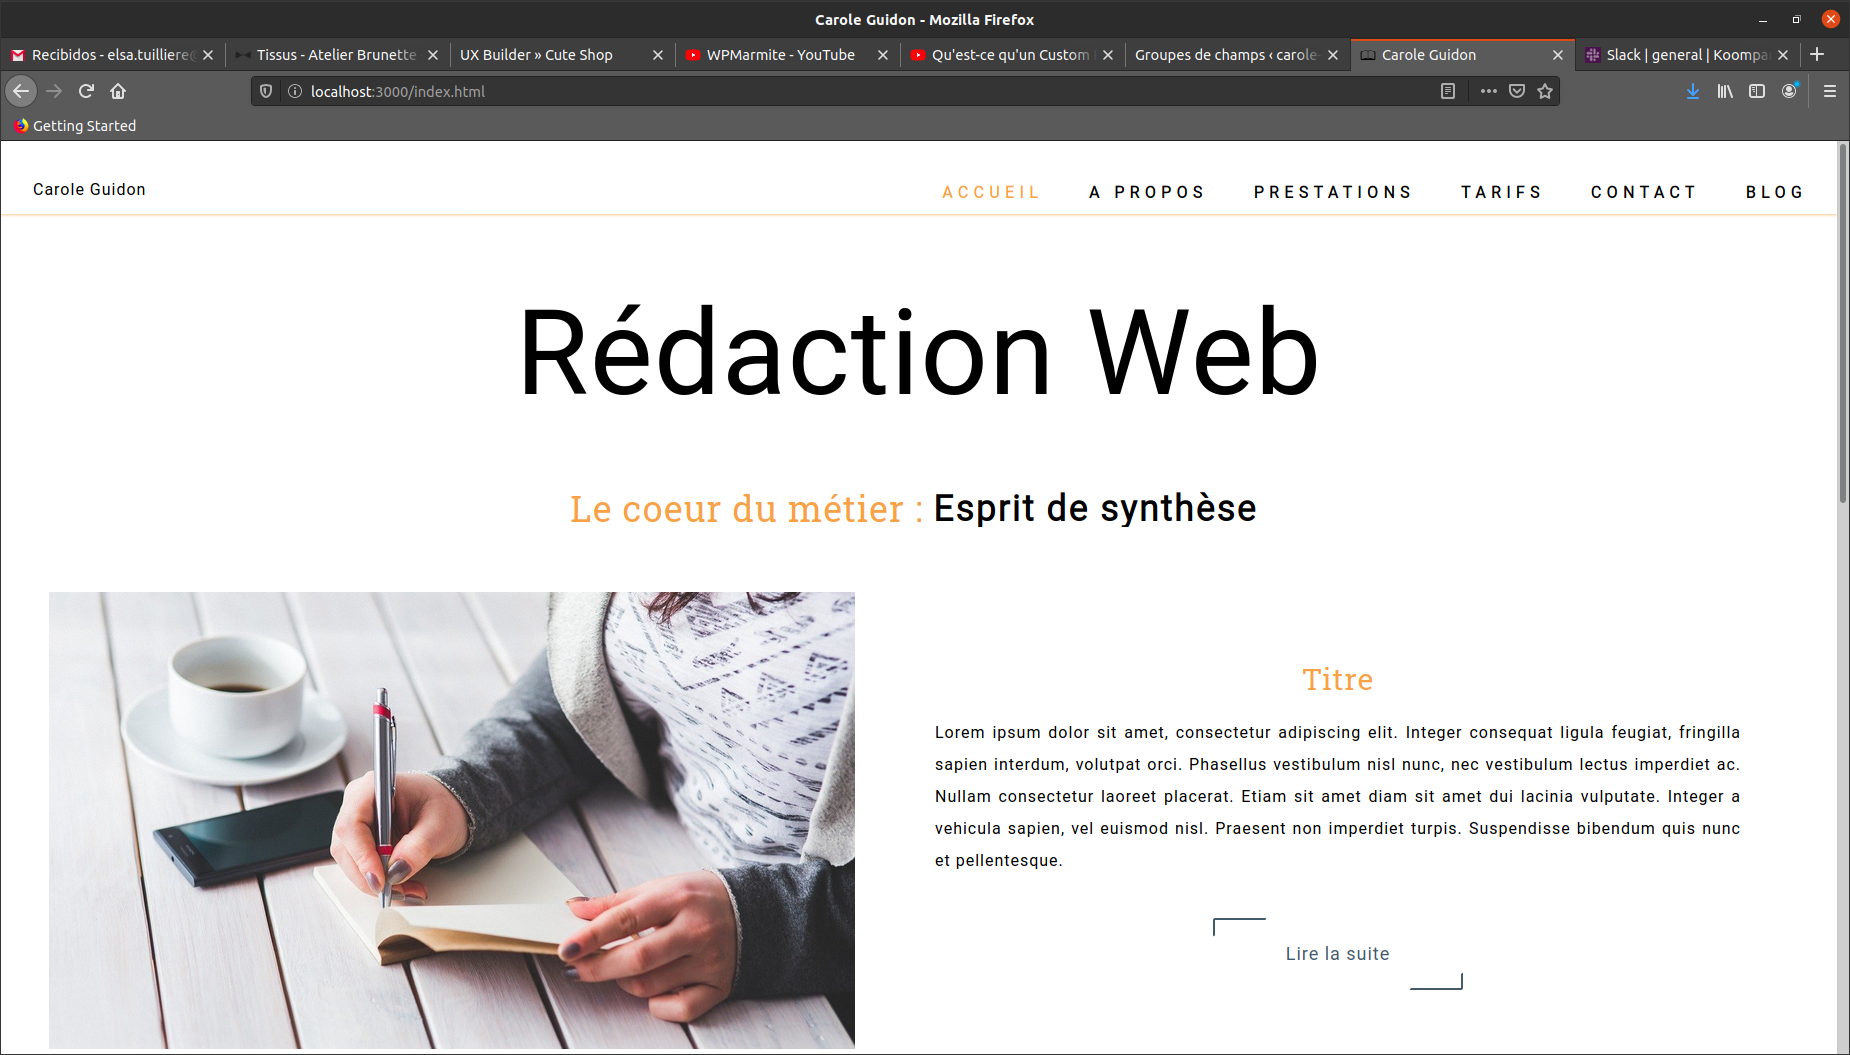
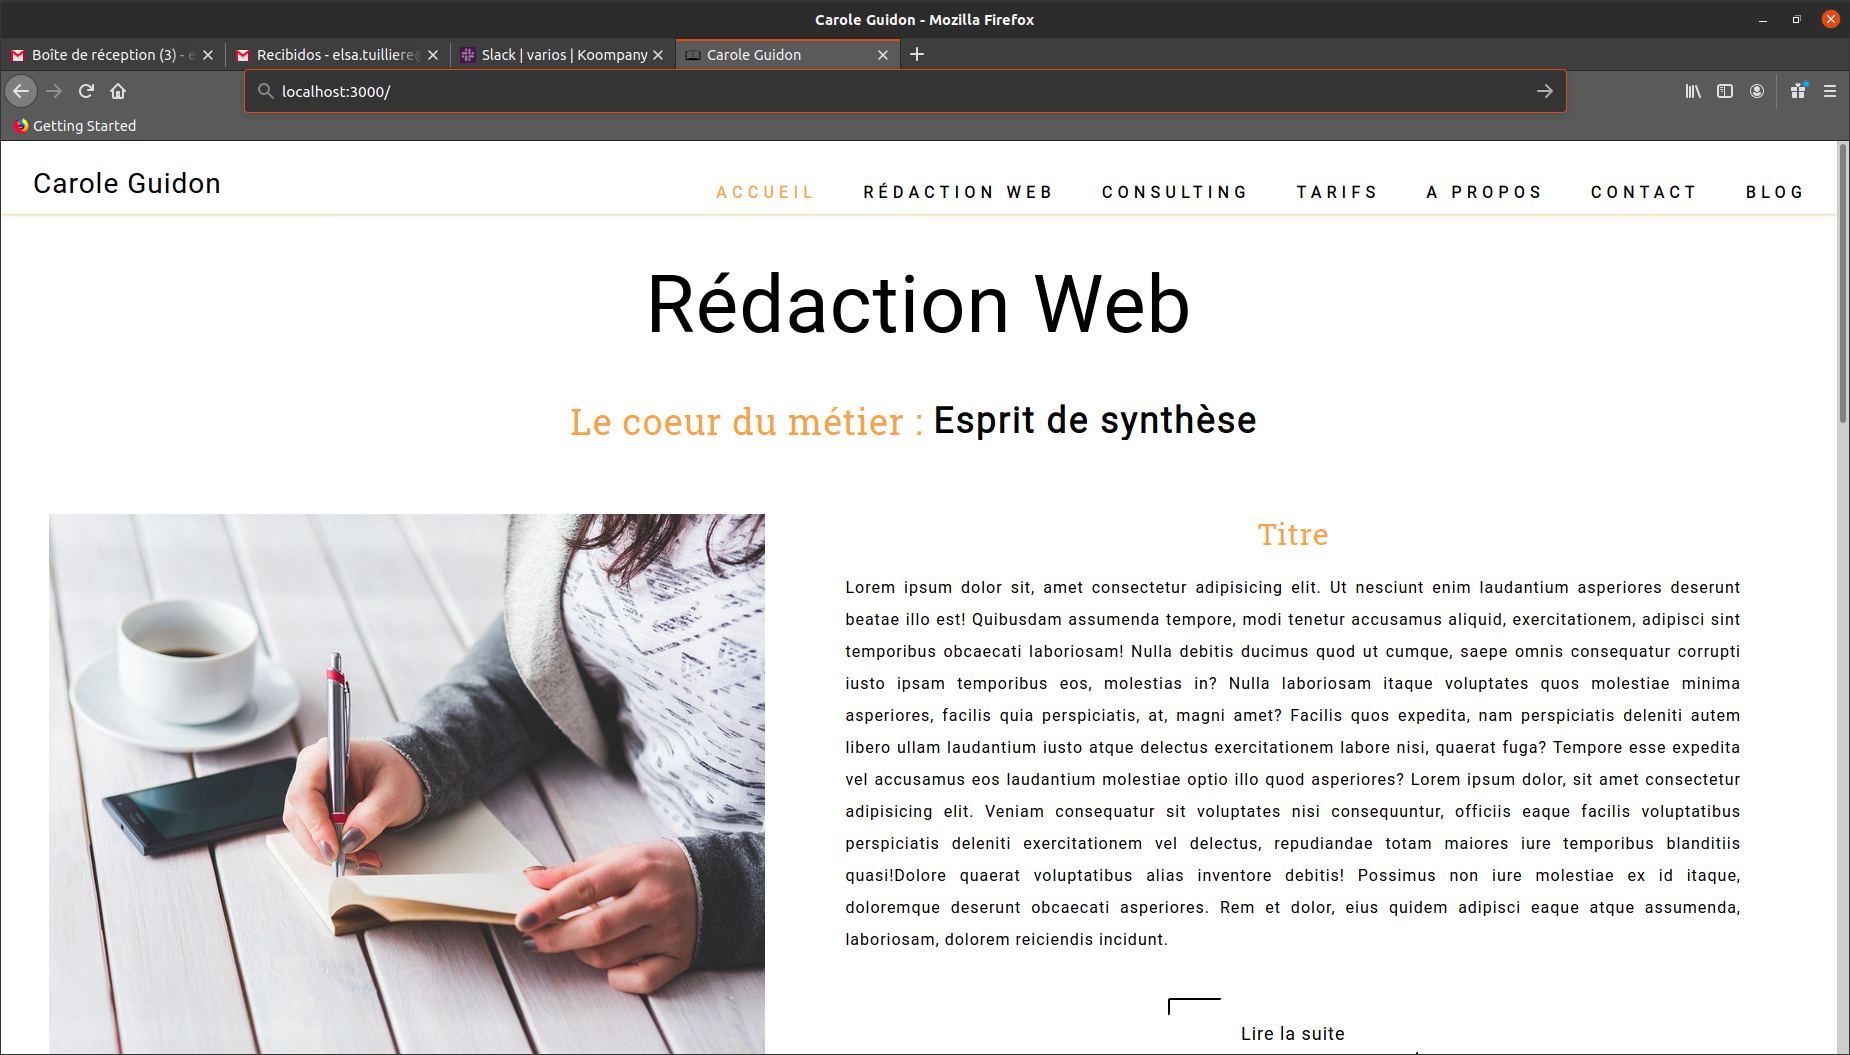
try/fail with the word carousel in homepage

diff --git a/content/themes/carole/app/scss/layout/_404.scss b/content/themes/carole/app/scss/layout/_404.scss
@@ -197,11 +197,11 @@ hr:after {
     width: 350px;
     height: 120px;
     background: $color-bg-light;
-    background: linear-gradient(top, $color-bg-light 100%);
-    background: -webkit-linear-gradient(top, $color-bg-light 100%);
-    background: -moz-linear-gradient(top, $color-bg-light 100%);
-    background: -ms-linear-gradient(top, $color-bg-light 100%);
-    background: -o-linear-gradient(top, $color-bg-light 100%);
+    background: linear-gradient(to top, $color-bg-light 100%);
+    background: -webkit-linear-gradient(to top, $color-bg-light 100%);
+    background: -moz-linear-gradient(to top, $color-bg-light 100%);
+    background: -ms-linear-gradient(to top, $color-bg-light 100%);
+    background: -o-linear-gradient(to top, $color-bg-light 100%);
     border-radius: 100px;
     -webkit-border-radius: 100px;
     -moz-border-radius: 100px;

diff --git a/content/themes/carole/app/scss/layout/_footer.scss b/content/themes/carole/app/scss/layout/_footer.scss
@@ -91,7 +91,8 @@ nav .footer-menu-nav {
 
 .footer-menu-nav a {
     @media (min-width: $breakpoint-medium) {
-     margin: 0.5em
+     margin: 0.5em;
+     font-size: $font-size-small;
   }
 }
 
@@ -103,11 +104,13 @@ nav .footer-menu-nav {
   }
 }
 
-.footer-menu-nav{
+.footer-menu-nav {
   @media (min-width: $breakpoint-medium) {
     display: flex;
-    justify-content: flex-start;
+    flex-direction: row;
+    justify-content: center;
     margin-left: 2em;
+    
+    
   }
 }
-

diff --git a/content/themes/carole/app/scss/components/_word_carousel.scss b/content/themes/carole/app/scss/components/_word_carousel.scss
@@ -16,7 +16,8 @@
 /* block-$ */
 .block-effect {
   font-size: calc(6px + 4vw);
-  margin-top: 0.25em;
+  margin-top: 0.55em;
+  
 }
 
 .block-reveal {
@@ -69,11 +70,15 @@
 
 }
 
+.main-title {
+  font-size: 50px;
+}
+
 
 // carousel words
 //https://codepen.io/EricPorter/pen/JjPmOOb
 .home_presentation_word_carousel {
-    font-size: 36px;
+    // font-size: 36px;
     font-weight: 100;
     
     div {

diff --git a/content/themes/carole/app/assets/index.html b/content/themes/carole/app/assets/index.html
@@ -60,7 +60,7 @@
       
 
       <div class="block-effect" style="--td: 1.2s">
-        <div class="block-reveal" style="--bc: #F9A146; --d: .1s">Rédaction Web</div>
+        <div class="block-reveal home_presentation_word_carousel main-title" style="--bc: #F9A146; --d: .1s">Rédaction Web - Consulting</div>
       </div>
 
       <h4 class="home_presentation_word_carousel">    

diff --git a/content/themes/carole/app/scss/components/_icons.scss b/content/themes/carole/app/scss/components/_icons.scss
@@ -131,3 +131,12 @@
   width: 7em;
 
 }
+
+// icons in the social nav in footer and the scroll-top
+.fa{
+    font-size: 1.5em !important; /*size whatever you like*/
+}
+
+.social-nav .fa {
+  font-size: 1.5em !important;
+}
